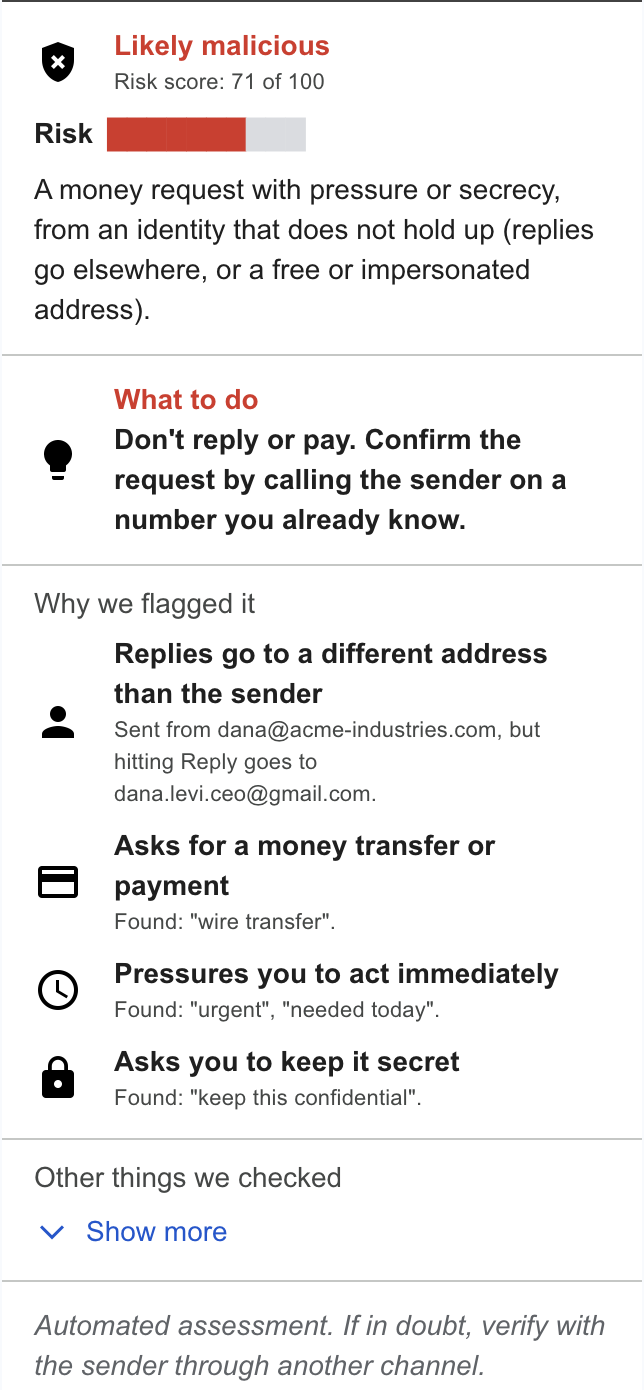
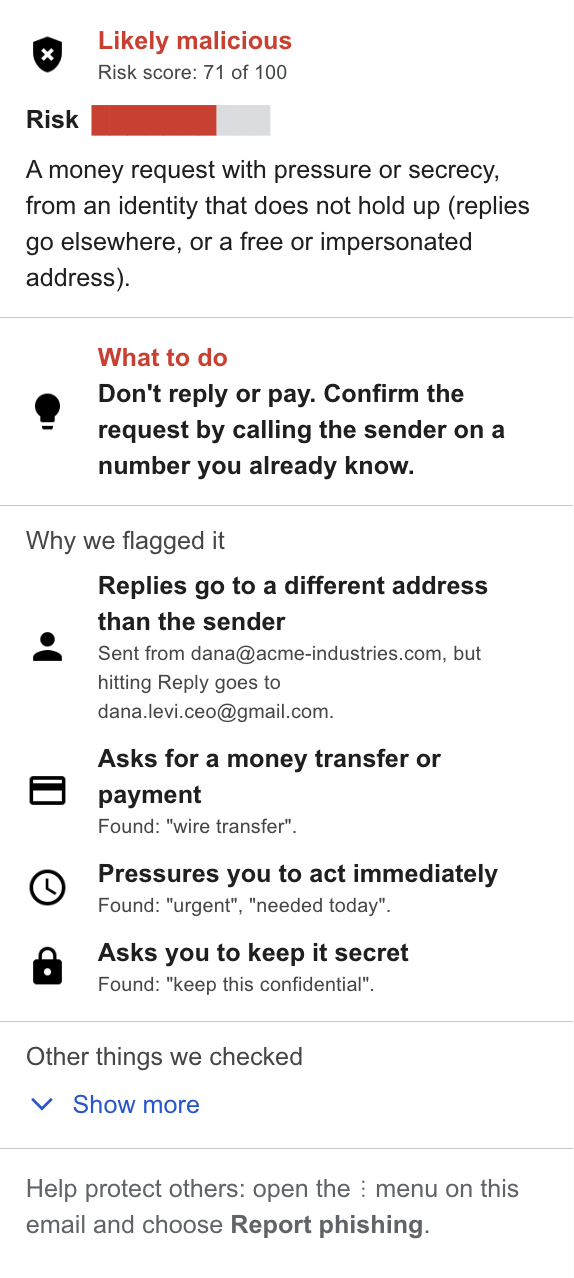
Closing note per verdict instead of a generic disclaimer
The same 'Automated assessment, verify through another channel' note
repeated the 'What to do' advice on red and orange cards.

- Looks safe: 'Looks safe isn't a guarantee...' (guards against false
  confidence, where there is no other advice)
- Suspicious: no note, 'What to do' already covers it
- Likely malicious: how to report phishing from Gmail's own menu, one
  more useful action that needs no extra permission
- README screenshots updated

Changed region(s): [[0.0296, 0.0, 0.9477, 1.0], [0.0592, 0.4883, 0.1185, 0.5493], [0.0592, 0.3052, 0.1185, 0.3662]]

diff --git a/README.md b/README.md
@@ -5,7 +5,7 @@ A Gmail Add-on that looks at the email you have open and tells you, in plain wor
 <table>
   <tr>
     <td align="center"><img src="docs/screenshots/ceo-fraud-malicious.png" width="250" alt="CEO fraud email scored 71, likely malicious"><br><sub>CEO fraud: no links, passes authentication</sub></td>
-    <td align="center"><img src="docs/screenshots/brand-on-free-email-suspicious.png" width="250" alt="Microsoft display name on a free Outlook account, suspicious"><br><sub>"Microsoft" on a free Outlook account</sub></td>
+    <td align="center"><img src="docs/screenshots/lookalike-domain-suspicious.png" width="250" alt="Look-alike PayPal domain that passes authentication, suspicious"><br><sub>Look-alike domain that passes authentication</sub></td>
     <td align="center"><img src="docs/screenshots/verified-sender-safe.png" width="250" alt="Verified Google email, looks safe"><br><sub>A genuine, verified sender</sub></td>
   </tr>
 </table>
